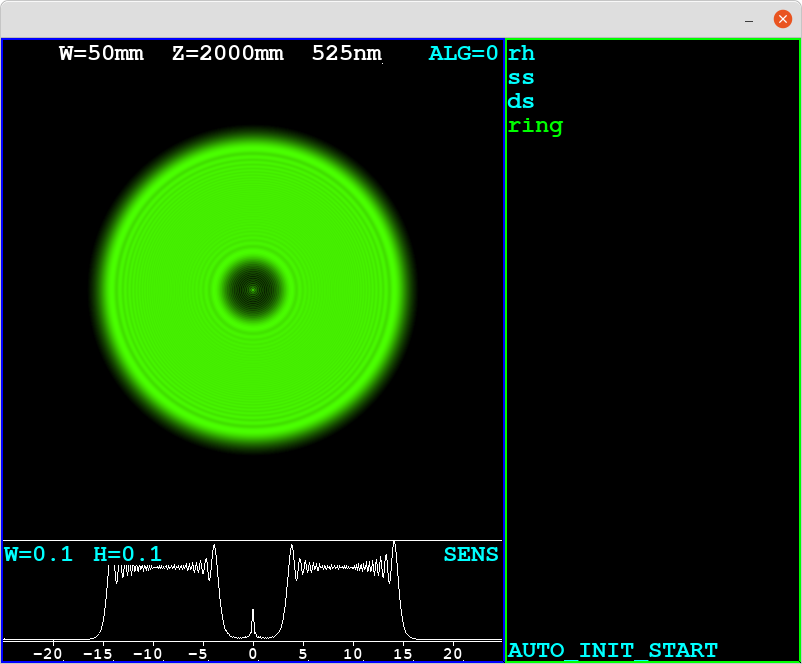
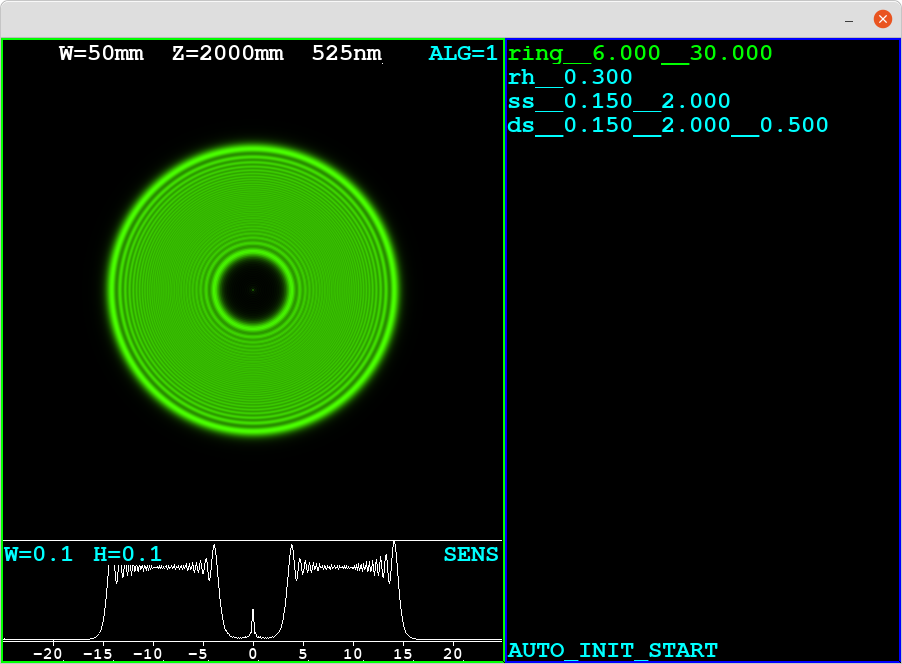
cleanup

Changed region(s): [[0.0, 0.0602, 1.0, 1.0], [0.904, 0.0, 0.9975, 0.0602], [0.8416, 0.1807, 0.9352, 0.2108]]

diff --git a/display.c b/display.c
@@ -1,3 +1,4 @@
+// xxx initial alg, or  make it part of the config
 // xxx use define for compute_completed
 
 #include "common.h"
@@ -9,18 +10,18 @@
 #define LARGE_FONT 24
 #define SMALL_FONT 16 
 
-#define MAX_INTENSITY_ALGORITHM  2  // xxx?
-
 #define MAX_SCREEN 500
-#define SCREEN_ELEMENT_SIZE  (1000 * TOTAL_SIZE / MAX_SCREEN)   // xxx mm
+#define SCREEN_ELEMENT_SIZE_MM  (1000 * TOTAL_SIZE / MAX_SCREEN)
 
-#define MIN_Z_MM     0     // xxx comment or assert requirements
-#define MAX_Z_MM     3000
-#define DELTA_Z_MM   100
+#define MIN_Z_MM           0     // these must have values so that z_mm will
+#define MAX_Z_MM           3000  // not exceed the min/max_z bounds
+#define DELTA_Z_MM         100
+#define INITIAL_Z_MM       2000
 
-#define MIN_WAVLEN_NM   400     // xxx comment or assert requirements
-#define MAX_WAVLEN_NM   750
-#define DELTA_WAVLEN_NM 25
+#define MIN_WAVLEN_NM      400   // these must have values so that wavelen_nm will
+#define MAX_WAVLEN_NM      750   // not exceed the min_max_wavelen bounds
+#define DELTA_WAVLEN_NM    25
+#define INITIAL_WAVELEN_NM 525
 
 //
 // variables
@@ -29,10 +30,10 @@
 static int      win_width;
 static int      win_height;
 
-static int      intensity_algorithm = 0;
+static int      intensity_algorithm = 1;
 
-static double   sensor_width  = .1;   // mm  xxx name
-static double   sensor_height = .1;   // mm
+static double   sensor_width_mm  = .1;
+static double   sensor_height_mm = .1;
 static bool     sensor_lines_enabled = false;
 
 static double   screen[MAX_SCREEN][MAX_SCREEN];
@@ -56,7 +57,7 @@ static void auto_init(void *cx);
 
 int display_init(bool swap_white_black)
 {
-    #define REQUESTED_WIN_WIDTH  800
+    #define REQUESTED_WIN_WIDTH  900
     #define REQUESTED_WIN_HEIGHT 625
 
     // init sdl, and get actual window width and height
@@ -69,9 +70,8 @@ int display_init(bool swap_white_black)
     INFO("REQUESTED win_width=%d win_height=%d\n", REQUESTED_WIN_WIDTH, REQUESTED_WIN_HEIGHT);
     INFO("ACTUAL    win_width=%d win_height=%d\n", win_width, win_height);
 
-    //  xxx comment
-    run_compute_thread(0, 525, 2000); // xxx defines
-    //run_compute_thread(2, 525, 2000); // xxx defines
+    //  run compute_thread to calculate the initial screen
+    run_compute_thread(0, INITIAL_WAVELEN_NM, INITIAL_Z_MM);
 
     // return success
     return 0;
@@ -113,6 +113,8 @@ void display_hndlr(void)
 }
 
 // -----------------  INTERFEROMETER PATTERN PANE HANDLER  ----------------------
+
+#define MAX_INTENSITY_ALGORITHM  2
 
 static void render_screen(
                 int y_top, int y_span, double screen[MAX_SCREEN][MAX_SCREEN], int wavelen_nm,
@@ -169,7 +171,6 @@ static int interference_pattern_pane_hndlr(pane_cx_t * pane_cx, int request, voi
         //          621
 
         // xxx if no wavelen yet
-
         // xxx comments
 
         // render the sections that make up this pane, as described above
@@ -197,7 +198,7 @@ static int interference_pattern_pane_hndlr(pane_cx_t * pane_cx, int request, voi
 
         // if enabled then draw horizontal lines accross middle to represent the top and bottom of the sensor
         if (sensor_lines_enabled) {
-            int sensor_height_pixels = sensor_height / SCREEN_ELEMENT_SIZE;
+            int sensor_height_pixels = sensor_height_mm / SCREEN_ELEMENT_SIZE_MM;
             int sensor_min_y = MAX_SCREEN/2 - sensor_height_pixels/2;
             int sensor_max_y = sensor_min_y + sensor_height_pixels - 1;
 
@@ -208,13 +209,13 @@ static int interference_pattern_pane_hndlr(pane_cx_t * pane_cx, int request, voi
         }
 
         // register events
-        sprintf(sensor_width_str, "W=%3.1f", sensor_width);
+        sprintf(sensor_width_str, "W=%3.1f", sensor_width_mm);
         sdl_render_text_and_register_event(
                 pane, 0, MAX_SCREEN+1, LARGE_FONT,
                 sensor_width_str, SDL_LIGHT_BLUE, SDL_BLACK,
                 SDL_EVENT_SENSOR_WIDTH, SDL_EVENT_TYPE_MOUSE_WHEEL, pane_cx);
 
-        sprintf(sensor_height_str, "H=%3.1f", sensor_height);
+        sprintf(sensor_height_str, "H=%3.1f", sensor_height_mm);
         sdl_render_text_and_register_event(
                 pane, COL2X(6,LARGE_FONT), MAX_SCREEN+1, LARGE_FONT,
                 sensor_height_str, SDL_LIGHT_BLUE, SDL_BLACK,
@@ -241,16 +242,16 @@ static int interference_pattern_pane_hndlr(pane_cx_t * pane_cx, int request, voi
     if (request == PANE_HANDLER_REQ_EVENT) {
         switch (event->event_id) {
         case SDL_EVENT_SENSOR_WIDTH:
-            if (event->mouse_wheel.delta_y > 0) sensor_width += .1;
-            if (event->mouse_wheel.delta_y < 0) sensor_width -= .1;
-            if (sensor_width < 0.1) sensor_width = 0.1;
-            if (sensor_width > 5.0) sensor_width = 5.0;
+            if (event->mouse_wheel.delta_y > 0) sensor_width_mm += .1;
+            if (event->mouse_wheel.delta_y < 0) sensor_width_mm -= .1;
+            if (sensor_width_mm < 0.1) sensor_width_mm = 0.1;
+            if (sensor_width_mm > 5.0) sensor_width_mm = 5.0;
             break;
         case SDL_EVENT_SENSOR_HEIGHT:
-            if (event->mouse_wheel.delta_y > 0) sensor_height += .1;
-            if (event->mouse_wheel.delta_y < 0) sensor_height -= .1;
-            if (sensor_height < 0.1) sensor_height = 0.1;
-            if (sensor_height > 5.0) sensor_height = 5.0;
+            if (event->mouse_wheel.delta_y > 0) sensor_height_mm += .1;
+            if (event->mouse_wheel.delta_y < 0) sensor_height_mm -= .1;
+            if (sensor_height_mm < 0.1) sensor_height_mm = 0.1;
+            if (sensor_height_mm > 5.0) sensor_height_mm = 5.0;
             break;
         case SDL_EVENT_SENSOR_LINES:
             sensor_lines_enabled = !sensor_lines_enabled;
@@ -296,11 +297,10 @@ static void render_screen(
             double factor;
 
             // this translates the calculated screen intensity (which has
-            // been normalized to range 0 .. 1 by the sim_get_scren routine)
+            // been normalized to range 0 .. 1 by the get_scren routine)
             // to a pixel intensity; two algorithm choices are provided:
-            // - 0: logarithmic  (default)
+            // - 0: logarithmic
             // - 1: linear
-            // xxx comments
             if (intensity_algorithm == 0) {
                 if (screen[i][j] == 0) {
                     factor = 0;
@@ -346,15 +346,20 @@ static void render_intensity_graph(
     }
     sdl_render_lines(pane, graph, MAX_SCREEN, SDL_WHITE);
 
-    // xxx comments
-    y_top = y_bottom + 1;
+    //
+    // the remainder of this routine renders the x-axis of the intensity graph
+    //
 
     double tick_intvl, tick_loc;
     char tick_value_str[20];
     int tick_value, tick_value_loc, slen;
 
+    // set y_top to the location of the x-axis, just below the graph 
+    // which was rendered by the code above
+    y_top = y_bottom + 1;
+
     // convert 5mm to tick_intvl in pixel units
-    tick_intvl = 5 / SCREEN_ELEMENT_SIZE;
+    tick_intvl = 5 / SCREEN_ELEMENT_SIZE_MM;
 
     // starting at the center, adjust tick_loc to the left to 
     // find the first tick location
@@ -373,7 +378,7 @@ static void render_intensity_graph(
 
         // determine the tick value (in mm), and display it centered below the tick
         // - determine the tick_value based on the difference between tick_loc and the center
-        tick_value = nearbyint((tick_loc - MAX_SCREEN/2) * SCREEN_ELEMENT_SIZE);
+        tick_value = nearbyint((tick_loc - MAX_SCREEN/2) * SCREEN_ELEMENT_SIZE_MM);
         sprintf(tick_value_str, "%d", tick_value);
         // - determine the tick_value_loc, accounting for the string length of the tick_value_str
         slen = strlen(tick_value_str);
@@ -397,8 +402,8 @@ static double get_sensor_value(int screen_idx, double screen[MAX_SCREEN][MAX_SCR
     int i, j, cnt;
 
     // convert caller's sensor dimensions (in mm) to screen-elements
-    sensor_width_screen_elements = sensor_width / SCREEN_ELEMENT_SIZE;
-    sensor_height_screen_elements = sensor_height / SCREEN_ELEMENT_SIZE;
+    sensor_width_screen_elements = sensor_width_mm / SCREEN_ELEMENT_SIZE_MM;
+    sensor_height_screen_elements = sensor_height_mm / SCREEN_ELEMENT_SIZE_MM;
 
     // determine sensor location for indexing into the screen array;
     // these min/max values are used to compute an average sensor_value
@@ -463,7 +468,7 @@ static int control_pane_hndlr(pane_cx_t * pane_cx, int request, void * init_para
         for (row = 0, i = 0; i < max_aperture; i++, row++) {
             sdl_render_text_and_register_event(
                     pane, 0, ROW2Y(row,LARGE_FONT), LARGE_FONT,
-                    aperture[i].name, 
+                    aperture[i].full_name, 
                     aperture_idx == i ? SDL_GREEN : SDL_LIGHT_BLUE, SDL_BLACK,
                     SDL_EVENT_APERTURE_SELECT+i, SDL_EVENT_TYPE_MOUSE_CLICK, pane_cx);
         }
@@ -559,6 +564,14 @@ static void get_screen(void);
 static void run_compute_thread(int requested_aperture_idx, int requested_wavelen_nm, int requested_z_mm)
 {
     pthread_t tid;
+    static pthread_attr_t attr;
+    static bool first_call = true;
+
+    if (first_call) {
+        pthread_attr_init(&attr);
+        pthread_attr_setdetachstate(&attr, PTHREAD_CREATE_DETACHED);
+        first_call = false;
+    }
 
     if (compute_in_progress) return;
 
@@ -572,15 +585,14 @@ static void run_compute_thread(int requested_aperture_idx, int requested_wavelen
     memset(screen, 0, sizeof(screen));
 
     compute_in_progress = true;
-    pthread_create(&tid, NULL, compute_thread, NULL);
+
+    pthread_create(&tid, &attr, compute_thread, NULL);
 }
 
 static void *compute_thread(void *cx)
 {
     int fd;
     char filename[200];
-
-    // xxx create detached
 
     sprintf(filename, "saved_results/%s__%d__%d__.dat", 
             aperture[aperture_idx].full_name, wavelen_nm, z_mm);
@@ -666,7 +678,7 @@ static void auto_init(void *cx)
         auto_init_z_mm = MIN_Z_MM;
     }
 
-    // if xxx comment
+    // if compute is currently in progress then return
     if (compute_in_progress) return;
 
     // run_compute_thread
